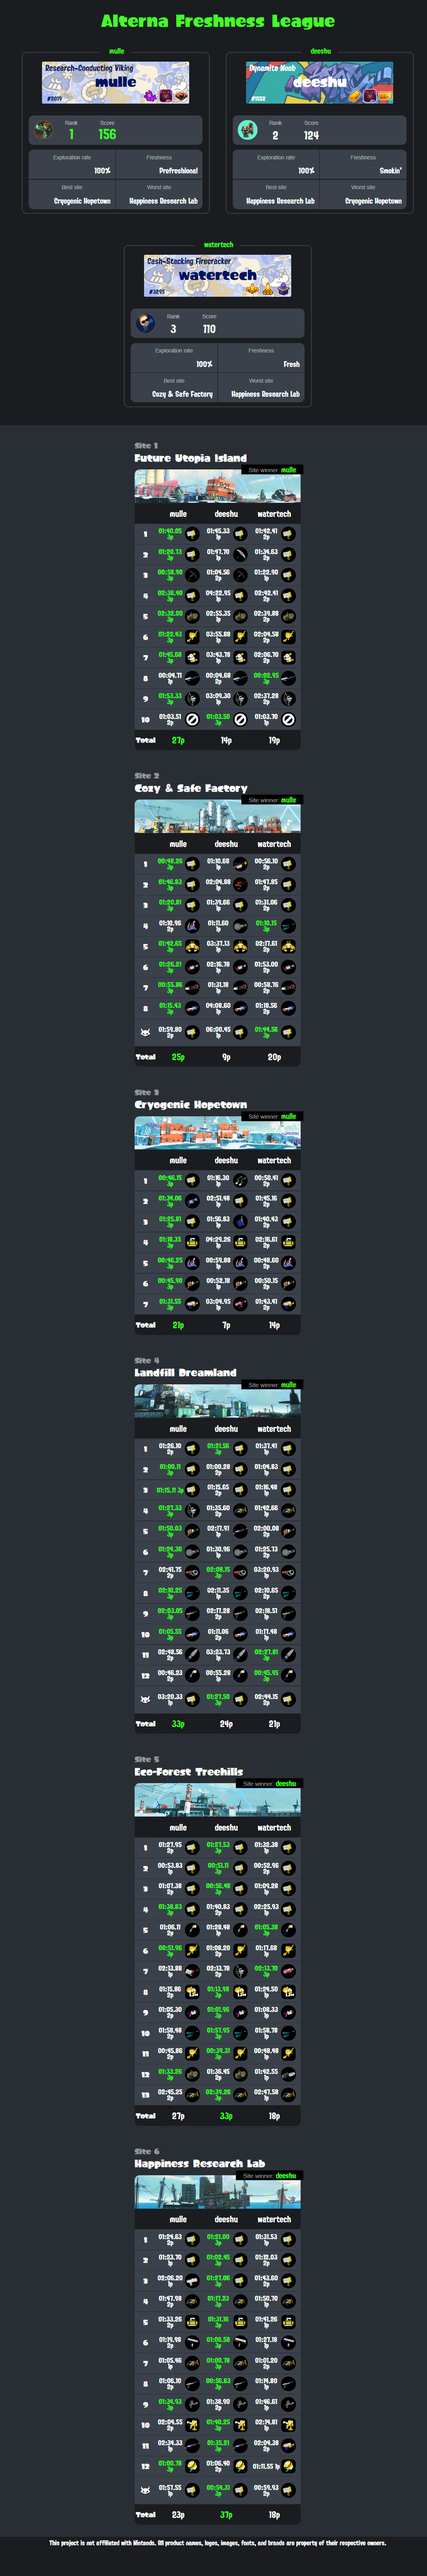
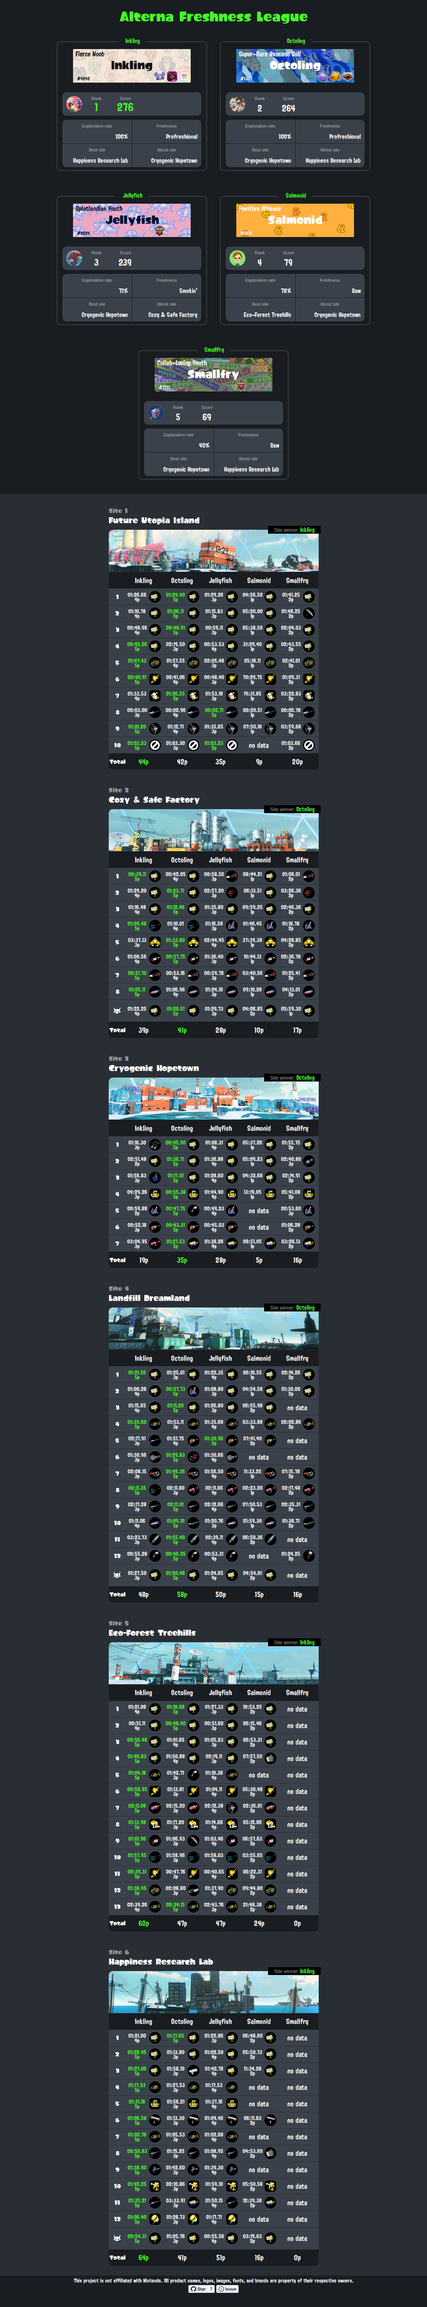
New screenshots

Changed region(s): [[0.0625, 0.0, 0.9688, 0.9961]]

diff --git a/README.md b/README.md
@@ -51,8 +51,6 @@ The bridge intentionally exposes a tiny surface (the rest of `nxapi` is not reac
 | `GET` | `/api/splatnet3/records?token=<session_token>` | Runs `nxapi splatnet3 dump-records --hero --history` and returns the raw GraphQL payloads as `{heroResult, historyPlayer}` |
 | `GET` | `/api/splatnet3/side-order?token=<session_token>` | Gets a SplatNet 3 bullet token from `nxapi splatnet3 token --json`, then runs SplatNet 3's `HistoryRecordQuery` and Side Order queries itself (nxapi doesn't know the Side Order queries): palettes, results/high score, color chips, field guide, and the run details (chip board, hacks, date) of each palette's fastest run and the high-score run. Run details never change, so the sidecar caches them for up to a year, on disk in the `nxapi-data` volume (`/data/side-order-runs`); a run is re-fetched a week before the signed image links inside it expire. Returns `{historyPlayer, sideOrderPalettes, sideOrderChallenge, sideOrderColorChips, sideOrderEnemies, tryDetails}`; the Side Order fields are `null` for players without the DLC |
 
-
-
 ## Running the Go app directly
 
 The app talks to the sidecar over HTTP and has no other runtime dependencies. Make sure the bridge is reachable (either run `docker compose up nxapi` or run the bridge yourself with `go run ./nxapi-bridge` plus a local `nxapi` install).
@@ -60,17 +58,23 @@ The app talks to the sidecar over HTTP and has no other runtime dependencies. Ma
 ```
 Usage of ./alterna-freshness-league:
   -league value
-        Contestants json string, tries to read 'contestants.json' file if not set
+        Contestants json string; falls back to CONTESTANTS env var, then 'contestants.json'
   -port string
         Port to bind to (default "8080")
   -proxy
         Start in proxy mode
- ```
-
-What does it look like? Something like this:
-![web example](alterna%20freshness%20league.png)
   -sidecar-url string
         Base URL for the nxapi-bridge sidecar (default "http://127.0.0.1:2727")
 ```
 
 Note: Nintendo authentication tokens are sent through the `nxapi` sidecar, which forwards relevant data to `nxapi-znca-api.fancy.org.uk` (Coral `f` generation). Review the upstream terms in the [nxapi-znca-api docs](https://github.com/samuelthomas2774/nxapi-znca-api/blob/docs/docs/public-api-terms.md).
+
+## What does it look like?
+
+The Alterna league (`/`):
+
+![Alterna league](alterna%20freshness%20league.png)
+
+The Side Order league (`/order`):
+
+![Side Order league](side%20order%20league.png)
